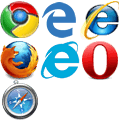
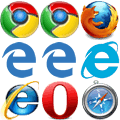
bugfix `xxx--hover`のようなファイルはMagic Selectorの対象にしないよう修正

diff --git a/example/htdocs/css/app.css b/example/htdocs/css/app.css
@@ -1,30 +1,39 @@
 /*
-            .icons-sprite, .icons-chrome, .icons-edge, .icons-firefox, .icons-ie11, .icons-ie9, .icons-opera, .icons-safari {
+            .icons-sprite, .icons-chrome--hover, .icons-chrome, .icons-edge, .icons-firefox, .icons-ie11, .icons-ie9, .icons-opera, .icons-safari {
                 background: url('../images/icons.png') no-repeat;
             }
-            @mixin icons-chrome {
+            @mixin icons-chrome--hover {
                 background-position: 0 0;
             }
-            @mixin icons-edge {
+            @mixin icons-chrome {
                 background-position: -40px 0;
             }
-            @mixin icons-firefox {
-                background-position: 0 -40px;
-            }
-            @mixin icons-ie11 {
+            @mixin icons-edge {
                 background-position: -40px -40px;
+                &:hover, &.edge_hover, &.edge-hover {
+                    background-position: 0 -40px;
+                }
             }
-            @mixin icons-ie9 {
+            @mixin icons-firefox {
                 background-position: -80px 0;
             }
-            @mixin icons-opera {
+            @mixin icons-ie11 {
                 background-position: -80px -40px;
             }
-            @mixin icons-safari {
+            @mixin icons-ie9 {
                 background-position: 0 -80px;
             }
+            @mixin icons-opera {
+                background-position: -40px -80px;
+            }
+            @mixin icons-safari {
+                background-position: -80px -80px;
+            }
             @mixin icons-sprite($name) {
-                @if $name == 'chrome' {
+                @if $name == 'chrome--hover' {
+                    @include icons-chrome--hover;
+                }
+                @else if $name == 'chrome' {
                     @include icons-chrome;
                 }
                 @else if $name == 'edge' {
@@ -47,6 +56,9 @@
                 }
             }
             @mixin all-icons-sprites {
+                .icons-chrome--hover {
+                    @include icons-chrome--hover;
+                }
                 .icons-chrome {
                     @include icons-chrome;
                 }
@@ -70,38 +82,46 @@
                 }
             }
 */
-.icons-sprite, .icons-chrome, .icons-edge, .icons-firefox, .icons-ie11, .icons-ie9, .icons-opera, .icons-safari {
+.icons-sprite, .icons-chrome--hover, .icons-chrome, .icons-edge, .icons-firefox, .icons-ie11, .icons-ie9, .icons-opera, .icons-safari {
   background: url("../images/icons.png") no-repeat;
 }
 
-.icons-chrome {
+.icons-chrome--hover {
   background-position: 0 0;
 }
 
-.icons-edge {
+.icons-chrome {
   background-position: -40px 0;
 }
 
-.icons-firefox {
-  background-position: 0 -40px;
-}
-
-.icons-ie11 {
+.icons-edge {
   background-position: -40px -40px;
 }
 
-.icons-ie9 {
+.icons-edge:hover, .icons-edge.edge_hover, .icons-edge.edge-hover {
+  background-position: 0 -40px;
+}
+
+.icons-firefox {
   background-position: -80px 0;
 }
 
-.icons-opera {
+.icons-ie11 {
   background-position: -80px -40px;
 }
 
-.icons-safari {
+.icons-ie9 {
   background-position: 0 -80px;
 }
 
+.icons-opera {
+  background-position: -40px -80px;
+}
+
+.icons-safari {
+  background-position: -80px -80px;
+}
+
 .foo {
-  background-position: 0 -80px;
+  background-position: -80px -80px;
 }

diff --git a/lib/index.js b/lib/index.js
@@ -205,27 +205,13 @@ var SpriteMagic = function () {
             }).join('') + '\n            }');
         }
     }, {
-        key: 'imagePath',
-        value: function imagePath(fileName) {
-            return path.join(path.relative(this.options.http_stylesheets_path, this.options.http_generated_images_path), fileName).replace(/\\/g, '/');
-        }
-    }, {
-        key: 'contents',
-        value: function contents() {
-            var contents = this.context.mixins.join('');
-            if (this.options.debug) {
-                contents = '/*' + contents + '\n*/' + contents;
-            }
-            return contents;
-        }
-    }, {
         key: 'getSelectorInfo',
         value: function getSelectorInfo() {
             var selectors = [];
             var pseudo = {};
 
             this.context.images.forEach(function (image) {
-                if (/(.+)[-_](active|hover|target)$/.test(image.name)) {
+                if (/(.+[^-_])[-_](active|hover|target)$/.test(image.name)) {
                     var imageName = RegExp.$1;
                     var pseudoClass = RegExp.$2;
                     if (!pseudo[imageName]) {
@@ -238,6 +224,20 @@ var SpriteMagic = function () {
             });
 
             return { selectors: selectors, pseudo: pseudo };
+        }
+    }, {
+        key: 'imagePath',
+        value: function imagePath(fileName) {
+            return path.join(path.relative(this.options.http_stylesheets_path, this.options.http_generated_images_path), fileName).replace(/\\/g, '/');
+        }
+    }, {
+        key: 'contents',
+        value: function contents() {
+            var contents = this.context.mixins.join('');
+            if (this.options.debug) {
+                contents = '/*' + contents + '\n*/' + contents;
+            }
+            return contents;
         }
     }]);
 

diff --git a/src/SpriteMagic.js b/src/SpriteMagic.js
@@ -153,7 +153,7 @@ export default class SpriteMagic {
         const pseudo = {};
 
         this.context.images.forEach(image => {
-            if (/(.+)[-_](active|hover|target)$/.test(image.name)) {
+            if (/(.+[^-_])[-_](active|hover|target)$/.test(image.name)) {
                 const imageName = RegExp.$1;
                 const pseudoClass = RegExp.$2;
                 if (!pseudo[imageName]) {
